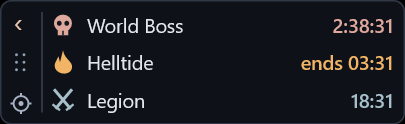
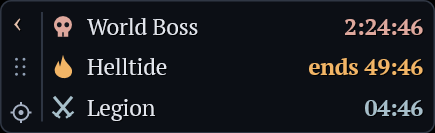
Record verified serif deployment and refresh preview [skip ci]

diff --git a/docs/validation.md b/docs/validation.md
@@ -20,4 +20,6 @@ Core behavior and review regressions were exercised as failing tests before thei
 
 Typography refinement, September 25: a regression check initially failed because the renderer returned Segoe UI. After embedding PT Serif, tests verified the actual private font collection, real regular/bold faces without synthetic weights, and actual label/countdown metrics at all 12 supported sizes. The complete core/platform/renderer suites passed before application replacement. The original executable size above describes the initial sans-serif build; embedding the two font faces adds approximately 683 KiB. Initial performance observations above predate this typography refinement.
 
+The revised executable is 1,678,336 bytes. Its offscreen smoke check passed without focus change, and it replaced the running overlay while preserving the existing settings file byte-for-byte. [Independent MSVC CI](https://github.com/ihor-sokoliuk/sanctuary-timers/actions/runs/36194895074) passed the new font checks and all other suites. The preview image shows the updated serif rendering.
+
 No mouse or keyboard input is synthesized during verification. Appearance state, placement, DPI changes and focus transitions were observed during natural user activity; the comfort of dragging, collapse, and actual gameplay click-through still require user confirmation. Monitor unplugging and Windows logon were not exercised. Pure startup policy tests cover preserving disablement/removal; actual Task Manager toggling has not been exercised. Request budget/cancellation logic is tested, but a hostile slow-chunk HTTP server is not part of the suite. A cancelled request may finish its current WinHTTP operation (up to the configured 4-second timeout) before exiting. No comparative performance claim against another overlay has been measured.
